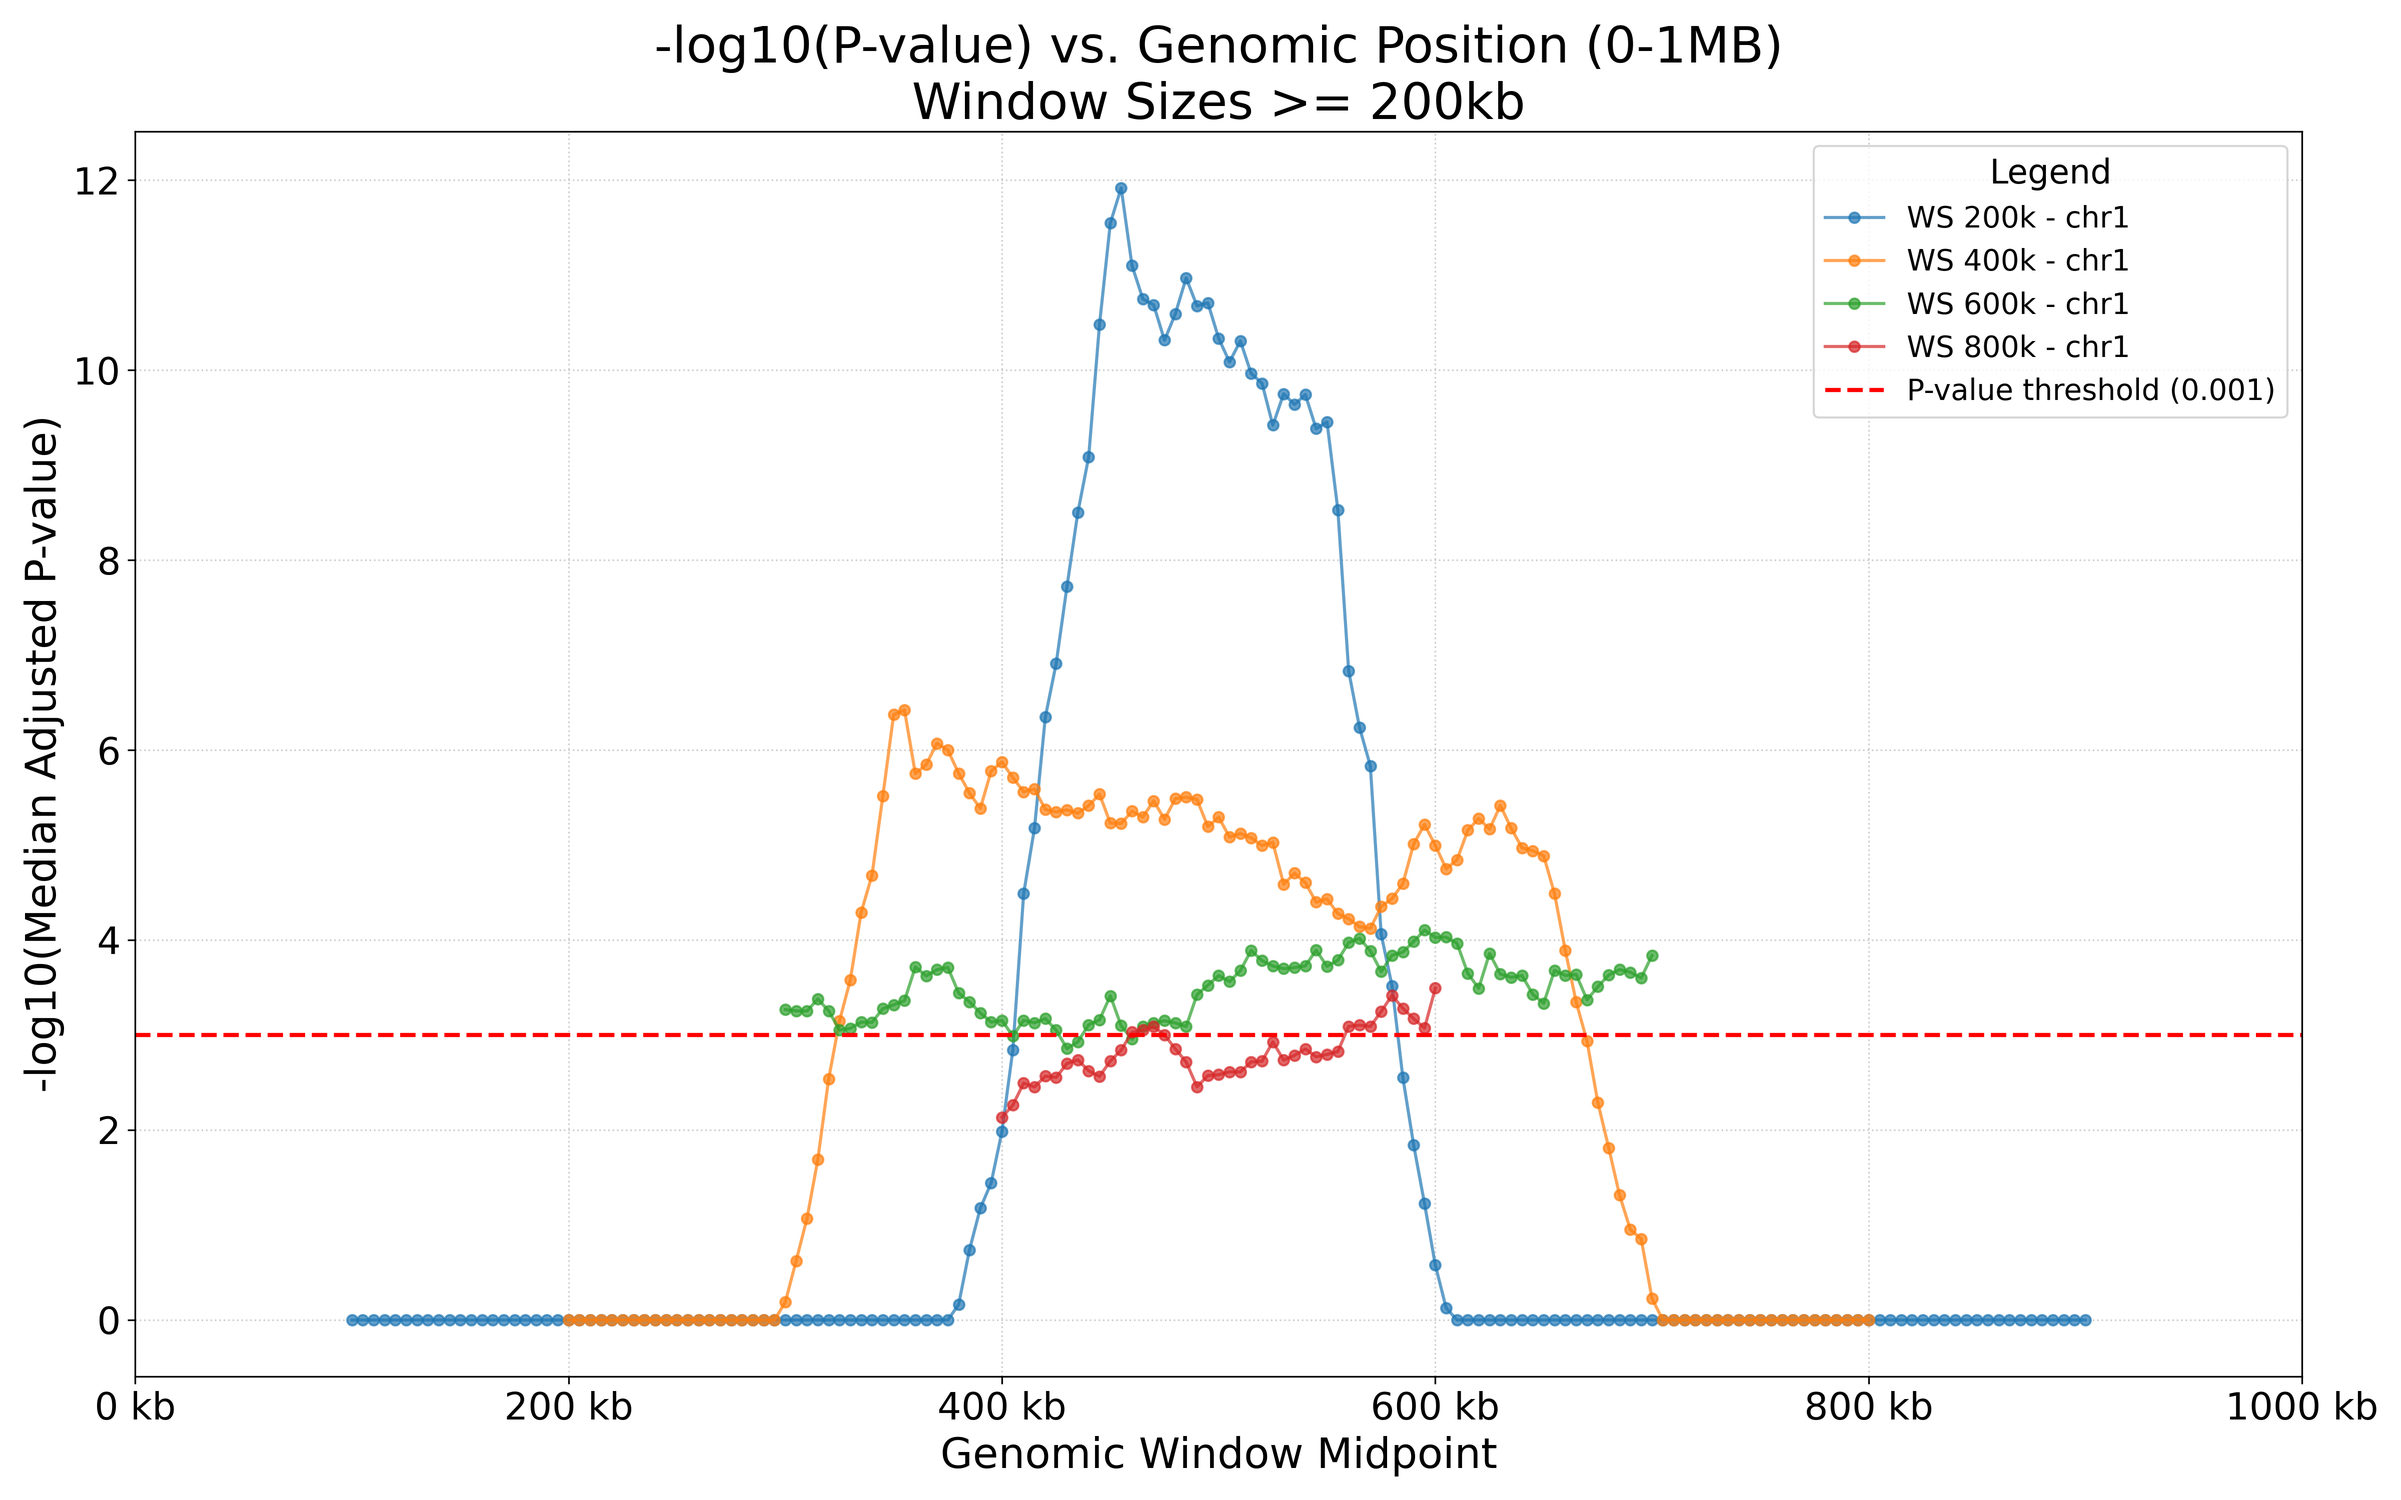
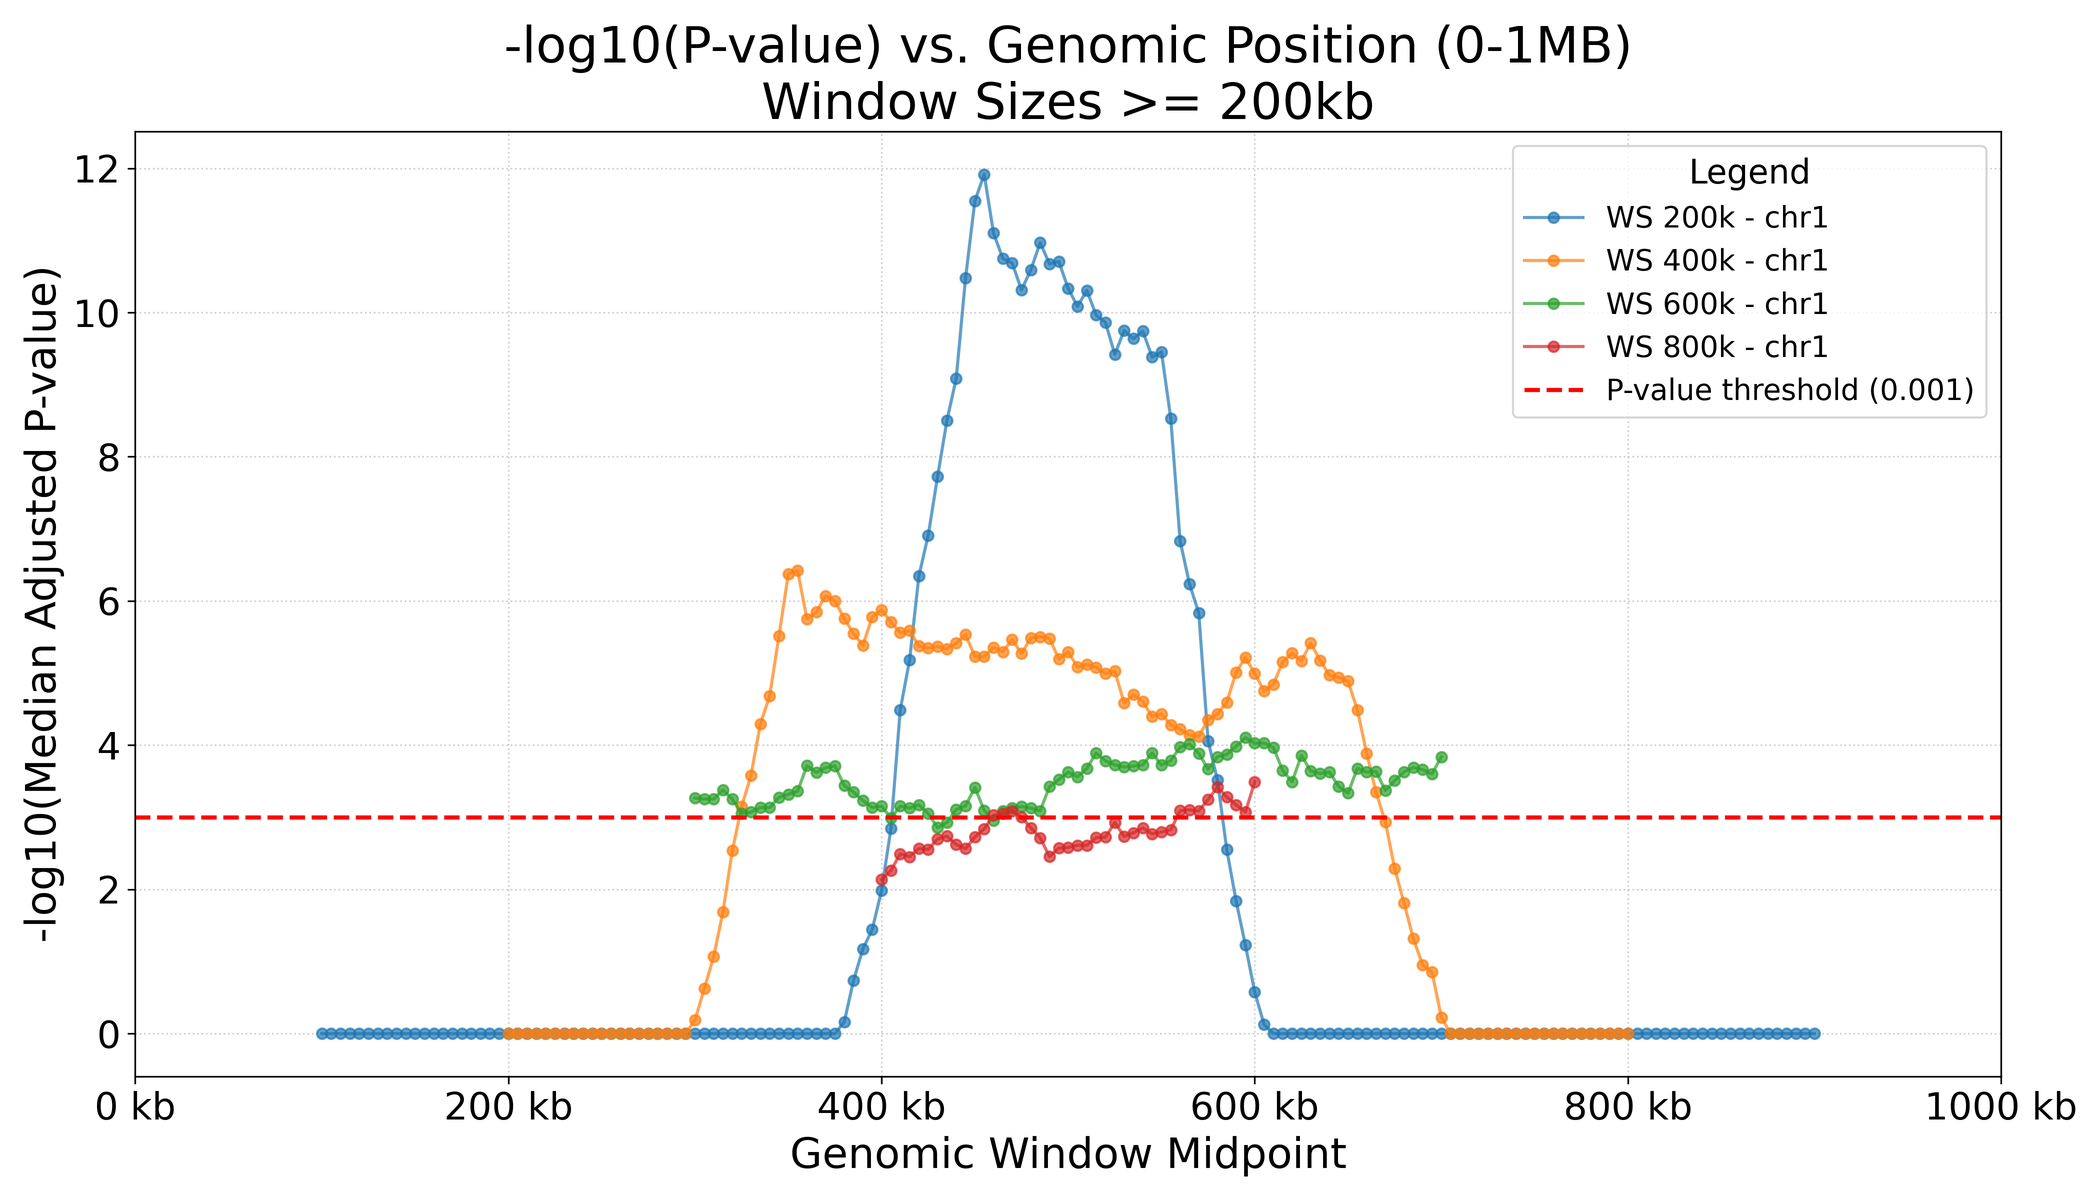
change plot sizes

diff --git a/04-synthetic-window-accuracy/summarize.py b/04-synthetic-window-accuracy/summarize.py
@@ -6,18 +6,17 @@ import re
 from collections import defaultdict
 
 RESULTS_DIR = "results"
-PLOT_FILENAME_GE_200K = "plot_median_ws_ge_200k.png" # Updated filename
-PLOT_FILENAME_LE_200K = "plot_median_ws_le_200k.png" # Updated filename
+PLOT_FILENAME_GE_200K = "plot_median_ws_ge_200k.png" 
+PLOT_FILENAME_LE_200K = "plot_median_ws_le_200k.png"
 WINDOW_SIZE_THRESHOLD = 200000
 
-# Font and figure size definitions
 TITLE_FONTSIZE = 24
 AXIS_LABEL_FONTSIZE = 20
 TICK_LABEL_FONTSIZE = 18
-LEGEND_FONTSIZE = 14 # Slightly reduced for internal legend, can be adjusted
-LEGEND_TITLE_FONTSIZE = 16 # Slightly reduced for internal legend
-FIGURE_WIDTH = 16 # Adjusted width as legend is now internal
-FIGURE_HEIGHT = 10
+LEGEND_FONTSIZE = 14 
+LEGEND_TITLE_FONTSIZE = 16 
+FIGURE_WIDTH = 14
+FIGURE_HEIGHT = 8
 MARKER_SIZE = 5
 
 
@@ -158,14 +157,11 @@ def create_plot_for_window_range(median_data, output_filename, plot_title_suffix
 
     handles, labels = ax.get_legend_handles_labels()
     if handles:
-        # Legend inside the plot, 'best' tries to find a good spot
-        # Removed bbox_to_anchor
-        legend = ax.legend(title="Legend", loc='best', # You can try 'upper right', 'lower left', etc.
-                           borderaxespad=0.5, # Padding inside legend box
+        legend = ax.legend(title="Legend", loc='best',
+                           borderaxespad=0.5, 
                            fontsize=LEGEND_FONTSIZE)
         plt.setp(legend.get_title(), fontsize=LEGEND_TITLE_FONTSIZE)
     
-    # Use tight_layout without rect to use full figure width
     plt.tight_layout() 
 
     try:

diff --git a/03-synthetic-dependency/summarize.py b/03-synthetic-dependency/summarize.py
@@ -107,7 +107,7 @@ def plot_pvalues(pvalues, dependency_factors_str):
     LEGEND_FONTSIZE = 18
 
     # Increased figure size and marker size
-    plt.figure(figsize=(16, 10)) 
+    plt.figure(figsize=(14, 7)) 
     
     plt.plot(x_values, pvalues['chr1'], 
              'o-', label='Chromosome 1 (dependent) - Median p-value', color='#1f77b4', markersize=8) # Larger marker
